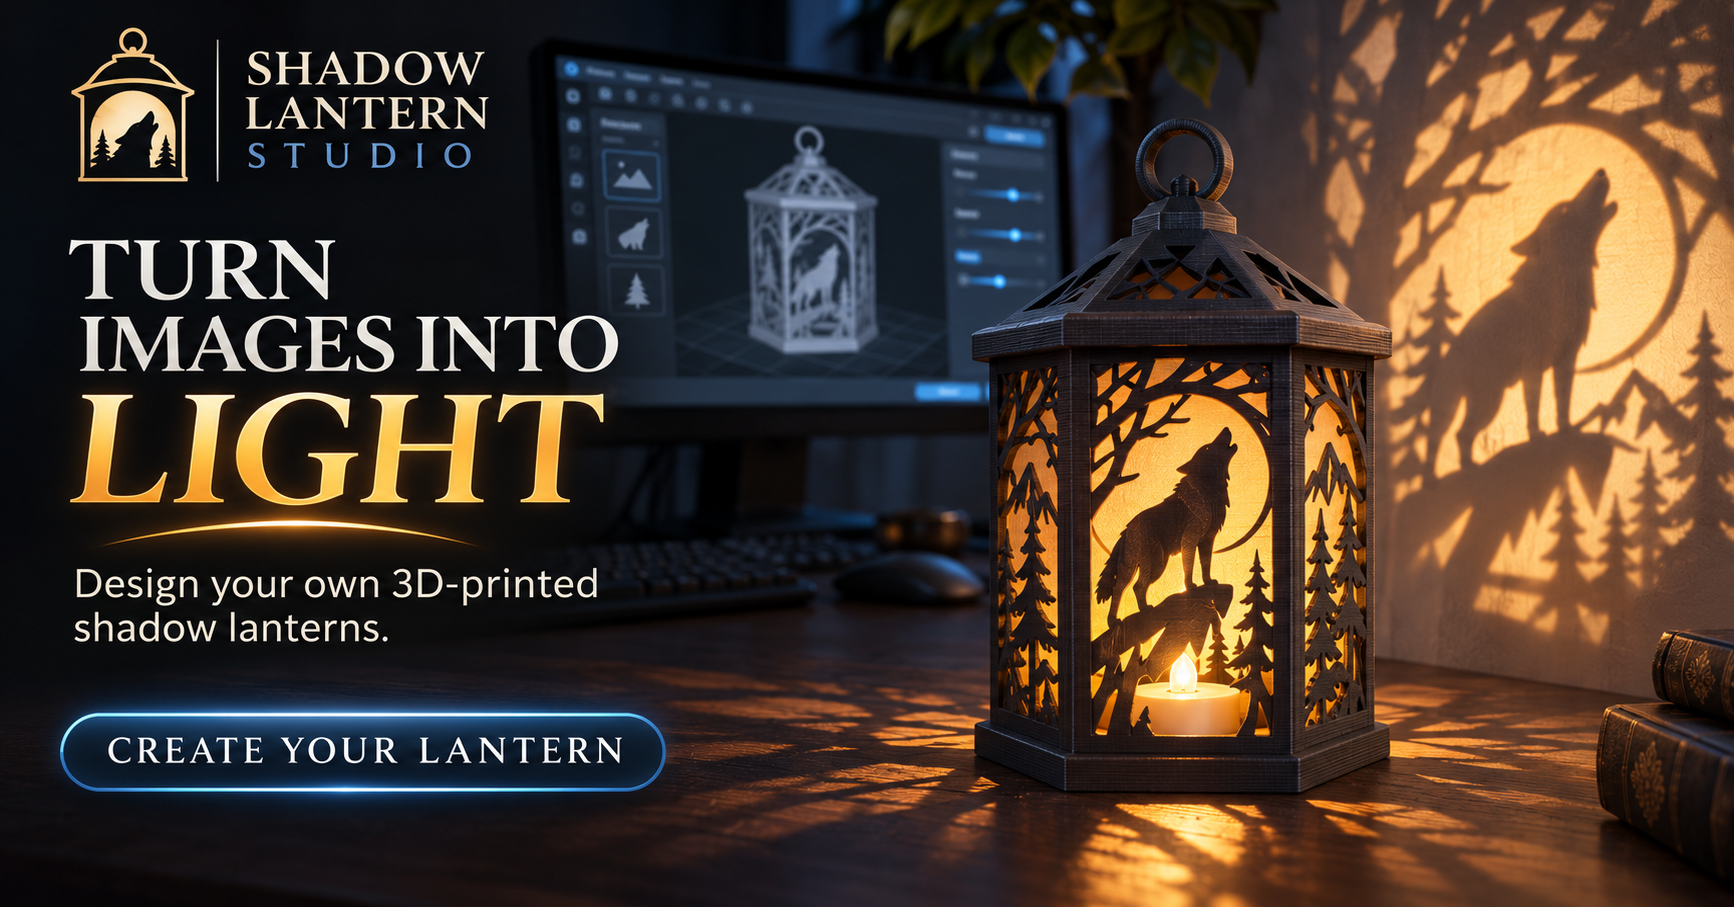
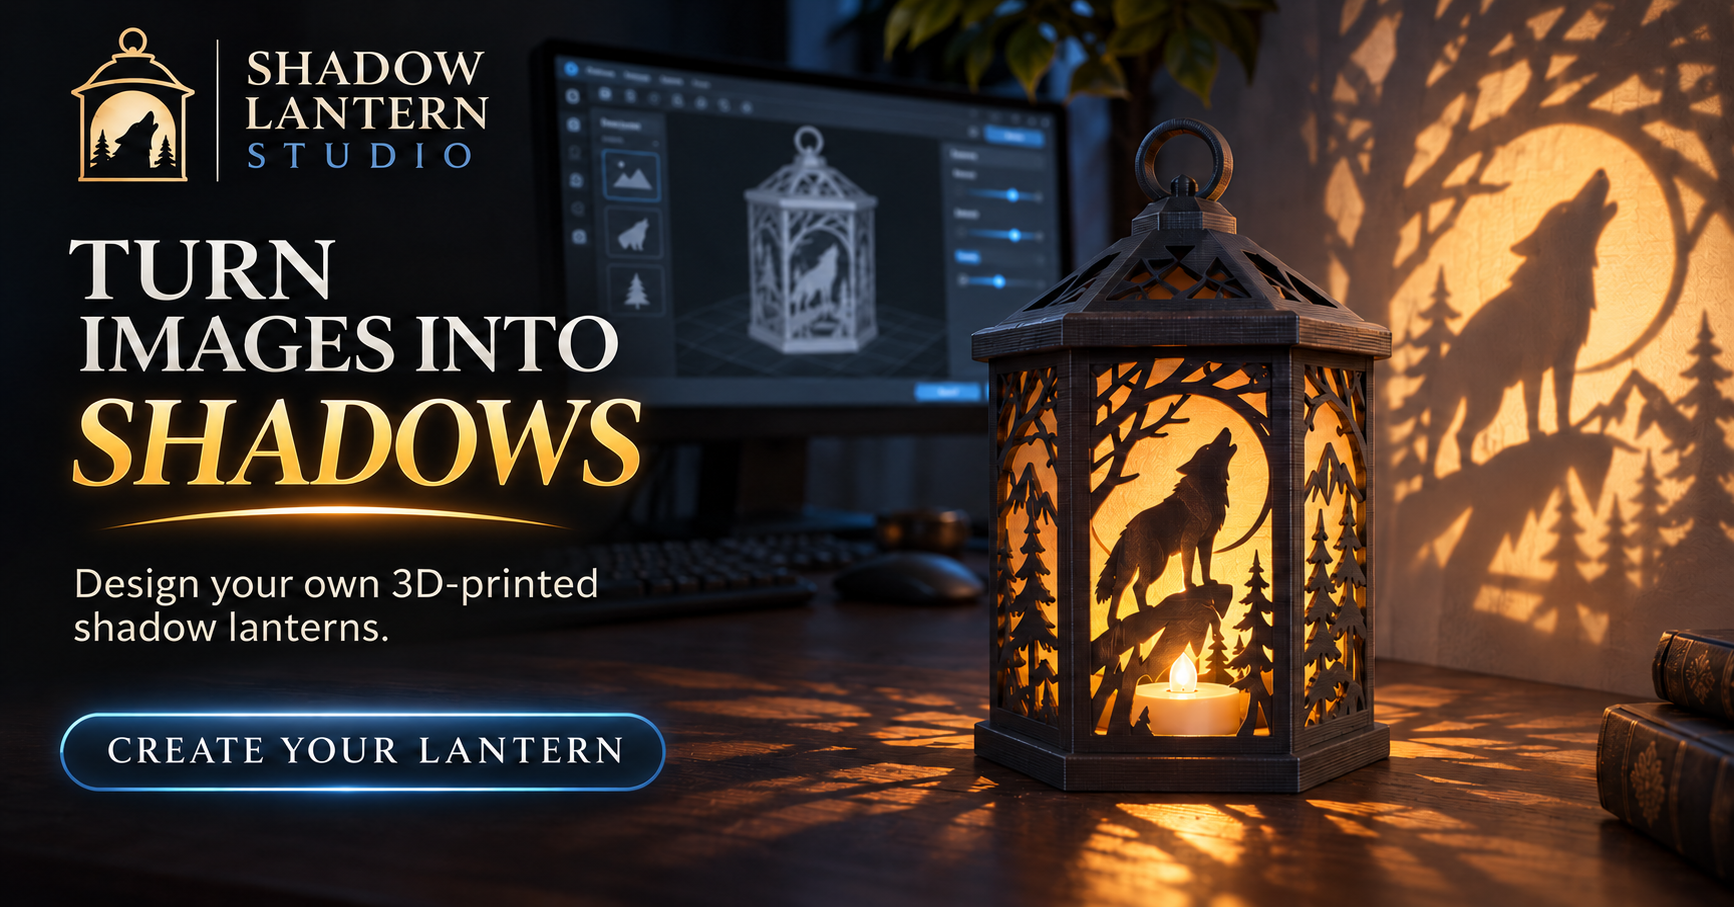
Refine beta campaign headline

diff --git a/README.md b/README.md
@@ -1,6 +1,6 @@
 # Shadow Lantern Studio
 
-**Turn images into light.** Create your own 3D-printable shadow lanterns from a
+**Turn images into shadows.** Create your own 3D-printable shadow lanterns from a
 picture or an AI-generated motif.
 
 [![Download the beta](https://img.shields.io/badge/Download-the%20beta-4a8fc9?style=for-the-badge)](https://github.com/mikaelmoran/ShadowLanternDownloads/releases/tag/v1.0.19-beta)
